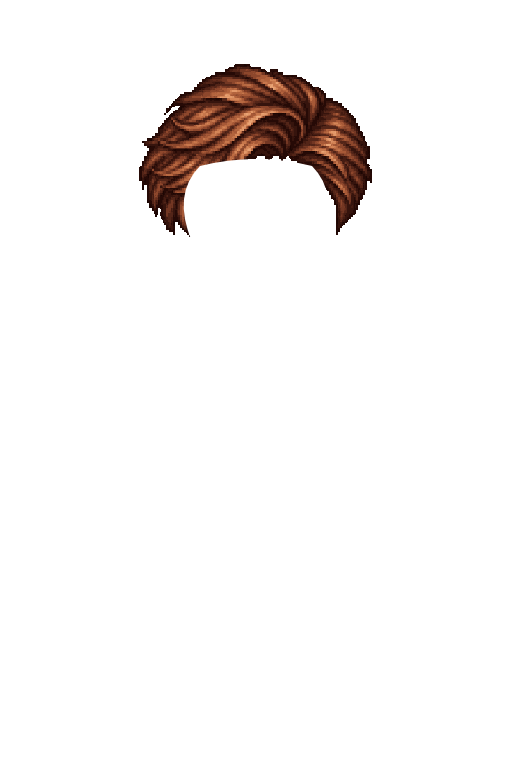
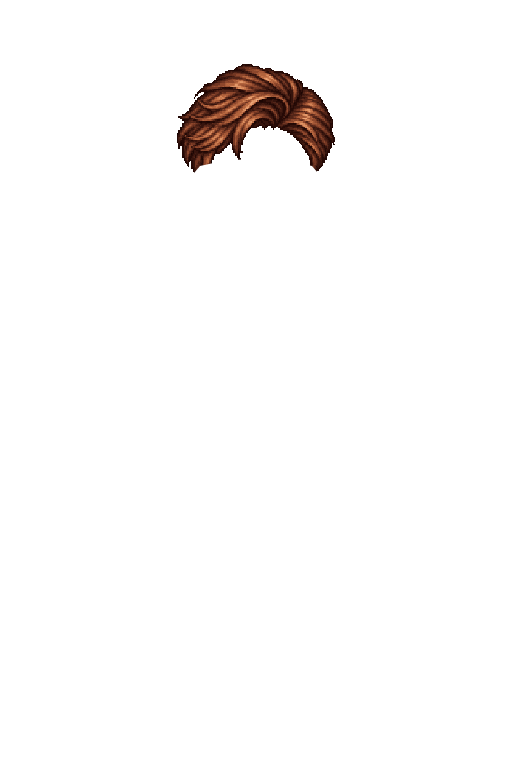
Gjer korte frisyrar tettare mot hovudet

Changed region(s): [[0.25, 0.0625, 0.75, 0.3125]]

diff --git a/index.html b/index.html
@@ -37,7 +37,7 @@
             </div>
             <aside class="vp-sign vp-sign--grounded vp-home-note" aria-label="Nyaste endringar">
                 <section class="vp-panel vp-panel--wood">
-                    <p class="vp-home-kicker">Nyaste endring på Vyrdepil · Versjon 1.84</p>
+                    <p class="vp-home-kicker">Nyaste endring på Vyrdepil · Versjon 1.85</p>
                     <p><strong>Utskriftsarka følgjer no A4-formatet.</strong> Leitekryss og Ordkryss skriv berre ut sjølve arbeidsarka, med større rutenett.</p>
                     <p><strong>Appkorta viser kven programma passar for.</strong> Du ser om eit spel eller verktøy høver for alle elevgrupper, småtrinn, mellomtrinn, ungdomstrinn eller lærarar.</p>
                     <p><strong>BåreTevling har fått fire figurtypar og ein illustrert spelguide.</strong> Førehandsvisingane er rydda, plasseringsvala står ved brettet, brettcellene er kvadratiske, og plasseringsvisinga følgjer Vyrdepil-designet.</p>

diff --git a/livslina/assets/prototype/character-builder-test.html b/livslina/assets/prototype/character-builder-test.html
@@ -11,9 +11,9 @@
 <body class="vp-page" data-vp-design data-vp-app="livslina">
   <main class="vp-shell builder-shell" id="main">
     <header class="page-heading">
-      <p class="eyebrow">Livslina · ressursprøve v5.2</p>
+      <p class="eyebrow">Livslina · ressursprøve v5.3</p>
       <h1>Karakterbyggjar</h1>
-      <p class="intro">Byt mellom fem hudtonar, tjue andletsuttrykk, tjue frisyrar og ti klesstilar. Ti nye andlet og ti nye frisyrar har meir markerte, maskuline trekk og kjem i tillegg til dei tidlegare vala.</p>
+      <p class="intro">Byt mellom fem hudtonar, tjue andletsuttrykk, tjue frisyrar og ti klesstilar. Ti nye andlet og ti nye frisyrar har meir markerte, maskuline trekk og kjem i tillegg til dei tidlegare vala. Dei korte frisyrene sit no tettare mot hovudforma og held øyra frie.</p>
     </header>
 
     <section class="builder" aria-label="Karakterbyggjar">

diff --git a/livslina/docs/character-production-standard-v5.md b/livslina/docs/character-production-standard-v5.md
@@ -100,3 +100,8 @@ Ressursprøva har no tjue andletsuttrykk og tjue frisyrar, i tillegg til fem hud
 Meisterhovudet, naseplasseringa og ansiktsramma er felles. Denne runden varierer augebryn, auge og munn; ho endrar ikkje kjeveforma eller hovudstorleiken. Hårressursane held seg til same målte krone og fullramme. Dei nye korte frisyrene har tomt baklag, og frontlaget blir reinska mot ansiktsvernet før eksport. Ingen hudfarge er bakt inn i ansikts- eller hårlaga.
 
 Dei nye kjeldeteikningane ligg lokalt under `livslina/_kjelder/character-v5.2/raw/` og blir haldne utanfor Git. Målte registreringar og faktiske generasjonsinstruksar ligg i [utvidingsloggen](character-generation-v5-masculine-additions.md).
+
+
+## Korrigering v5.3 — korte frisyrar
+
+Gjennomgangen av v5.2 viste at dei nye korte hårlaga var registrerte med 466 pikslar breidd på ei 1024-pikslars kjelderamme. Det gjorde dei 49 % breiare enn den målte hovudforma. Alle ti korte frisyrane er no registrerte proporsjonalt til 316 pikslar breidd mot 312 pikslar hovudbreidd og 408 pikslar ytre øyrebreidd. Kronefestet er framleis (512, 128). Nærmaste pikselinterpolering bevarer pikselkantane; inga ikkje-proporsjonal strekkjing er brukt. Alle hårlag stoppar ovanfor nedre øyrekant og held øyra frie.

diff --git a/livslina/docs/character-generation-v5-masculine-additions.md b/livslina/docs/character-generation-v5-masculine-additions.md
@@ -30,3 +30,7 @@ Andleta har berre bryn, auge og munn; den målte nasa blir delt mellom alle hudt
 ## Fast produksjonsdel
 
 Kvar ressurs er eit separat biletkall, ikkje eit atlas. Gjennomsiktig bakgrunn, rein pikselkant, varme mørke omriss, fleirtonige klynger og ingen glød. Hovud og ansikt skal ikkje teiknast inn i hårlaget. Andlet skal ikkje innehalde hud, hår eller nase; rendering deler den målte nasa. Hudform, feste, kameravinkel og kropp blir ikkje endra. Kort hår held seg over nakken, og baklaget er tomt. Kjeldefilene er bevarte i ignorert `_kjelder/`-katalog; alle målte kjeldeboksar, skalaer og festepunkt er dokumenterte i prøve-manifestet.
+
+## Korrigering v5.3 — tettare korte silhuettar
+
+Kontaktarket synte at v5.2 sine nye korte frisyrar var for vide og at nokre sidekrøllar gjekk nedanfor øyra. Målt hovudbreidd i kjeldeguiden er 312 px og ytre øyrebreidd 408 px. Ny registrering bruker 316 px breidd frå same sentrerte kronefeste (512, 128), med proporsjonal næraste-nabo-skalering. Dette reduserer breidda om lag 32 % frå førre eksport. Alle ti kombinasjonane er kontrollrenderte; hårsilhuetten held seg innanfor øyrebreidda og sluttar over nedre øyrekant.

diff --git a/CHANGELOG.md b/CHANGELOG.md
@@ -3,6 +3,11 @@
 Alle merkbare endringar i prosjektet blir dokumenterte her.
 Format: [Keep a Changelog](https://keepachangelog.com/), datoar i ISO 8601.
 
+## [1.85] — 2026-10-05
+
+### Fiksa
+- **Korte frisyrar i Livslina er gjorde mindre og tettare.** Håret held seg no innanfor øyrebreidda og går ikkje nedanfor øyra.
+
 ## [1.84] — 2026-10-05
 
 ### Endra
